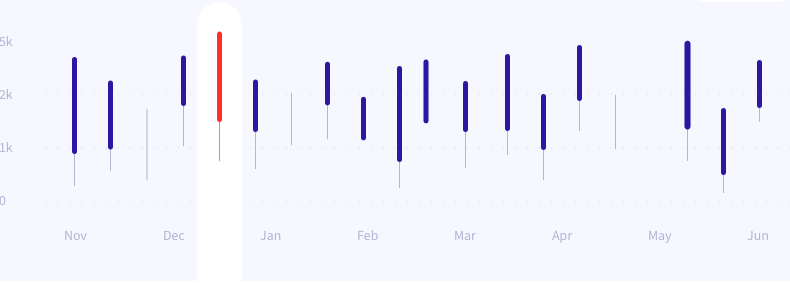
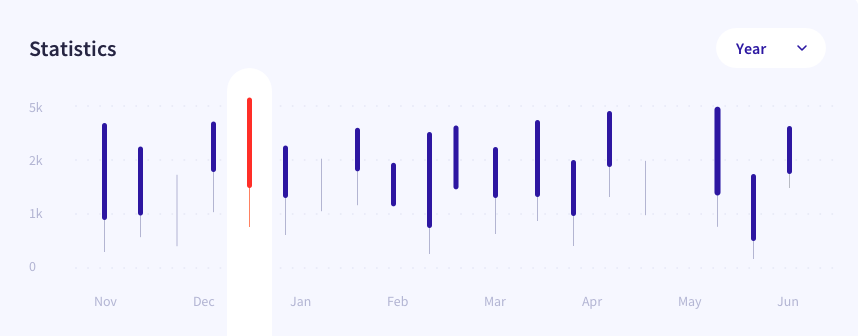
add spent time card

diff --git a/src/pages/Home.tsx b/src/pages/Home.tsx
@@ -1,8 +1,9 @@
-import { ActionButtons, CardGroup, MyCard, StatisticsGraph, Card } from '../components';
+import { ActionButtons, CardGroup, MyCard, Card, Tooltip } from '../components';
 import { isMobileDevice } from '../helpers/isMobileDevice';
 
 import analytics from '../images/analytics.png';
-
+import statistics from '../images/statistics.png';
+import spentTime from '../images/spentTime.png';
 interface analyticsCardDataProps {
     image: string;
     title: string;
@@ -23,7 +24,12 @@ const Home: React.FunctionComponent = () => {
                 <CardGroup>
                     {analyticsCardData.map(({ image, title, amount, isActive }, index) => {
                         return (
-                            <Card key={index} isActive={isActive} height={isMobileDevice ? '160px' : ''}>
+                            <Card
+                                key={index}
+                                isActive={isActive}
+                                height={isMobileDevice ? '160px' : ''}
+                                className="card-analytics"
+                            >
                                 <img
                                     className="card-image"
                                     src={image}
@@ -32,19 +38,27 @@ const Home: React.FunctionComponent = () => {
                                     width={isMobileDevice ? '100%' : '50px'}
                                 />
                                 <div className="card-body">
-                                    <h5 className="card-title">{title.toUpperCase()}</h5>
+                                    <h2 className="card-title">{title.toUpperCase()}</h2>
                                     <p className="card-text">{amount.toLocaleString()}</p>
                                 </div>
                             </Card>
                         );
                     })}
                 </CardGroup>
-                <StatisticsGraph />
                 <CardGroup>
-                    <Card maxWidth="420px" height="320px">
-                        Card 1
+                    <Card className="card-statistics">
+                        <img className="card-image" src={statistics} alt="statistics graph" />
                     </Card>
-                    <Card maxWidth="420px" height="320px">
+                </CardGroup>
+                <CardGroup>
+                    <Card maxWidth="420px" height="320px" className="card-spentTime">
+                        <div className="card-header">
+                            <h2 className="card-title">Spent Time</h2>
+                            <Tooltip title="4h 26min" color="#ffff" backgroundColor="#FF392B" />
+                        </div>
+                        <img className="card-image" src={spentTime} alt="spent time graph" />
+                    </Card>
+                    <Card maxWidth="420px" height="320px" className="card-connect">
                         Card 2
                     </Card>
                 </CardGroup>

diff --git a/src/style/card.css b/src/style/card.css
@@ -16,44 +16,47 @@
 }
 
 .card {
-    align-items: flex-start;
     box-shadow: -2px 1px 10px 3px rgba(247, 248, 255, 1);
     box-sizing: border-box;
     border-radius: 15px;
     display: flex;
-    flex: 1;
-    flex-direction: column-reverse;
     min-width: 0;
     padding: 10px;
 }
 
-.card.active {
+.card-analytics {
+    align-items: flex-start;
+    flex: 1;
+    flex-direction: column-reverse;
+}
+
+.card-analytics.active {
     background-color: #ff392b;
 }
 
-.card-image {
-    flex: 1;
+.card-analytics .card-image {
+    flex: 2;
 }
 
-.card-body {
+.card-analytics .card-body {
     align-items: flex-start;
     display: flex;
     flex-direction: column;
     flex: 1;
 }
 
-.card-title {
+.card-analytics .card-title {
     font-weight: 100;
     font-size: 10px;
     margin: 0;
     opacity: 0.5;
 }
 
-.card.active .card-title {
+.card-analytics.active .card-title {
     color: #ffff;
 }
 
-.card-text {
+.card-analytics .card-text {
     color: #3326ae;
     font-size: 20px;
     font-weight: bold;
@@ -62,8 +65,40 @@
     padding-top: 5px;
 }
 
-.card.active .card-text {
+.card-analytics.active .card-text {
     color: #ffff;
+}
+
+.card-statistics .card-image {
+    width: 100%;
+    height: 150px;
+}
+
+.card-spentTime {
+    flex-direction: column;
+}
+
+.card-spentTime .card-header {
+    display: flex;
+    align-items: center;
+    flex: 1;
+}
+
+.card-spentTime .card-header {
+    display: flex;
+    align-items: center;
+    flex: 1;
+    justify-content: space-between;
+    padding: 0 50px;
+}
+
+.card-spentTime .card-title {
+    font-size: 20px;
+    font-weight: normal;
+}
+
+.card-spentTime .card-image {
+    height: 355px;
 }
 
 @media screen and (min-width: 769px) {
@@ -79,24 +114,30 @@
         margin: 10px;
     }
 
-    .card {
+    .card-analytics {
+        align-items: center;
         display: flex;
         flex-direction: row;
+        height: 110px;
         padding: 15px;
         overflow: hidden;
     }
 
-    .card-image {
+    .card-analytics .card-image {
         flex: 1;
     }
 
-    .card-body {
+    .card-analytics .card-body {
         flex-direction: column;
         flex: 2;
         padding-left: 5px;
     }
 
-    .card-text {
+    .card-analytics .card-text {
         font-size: 25px;
+    }
+
+    .card-statistics .card-image {
+        height: 355px;
     }
 }

diff --git a/src/components/Card.tsx b/src/components/Card.tsx
@@ -2,15 +2,16 @@ interface CardProps {
     height?: string;
     maxWidth?: string;
     isActive?: boolean;
+    className: string;
 }
 
-const Card: React.FunctionComponent<CardProps> = ({ children, height, maxWidth, isActive }) => {
+const Card: React.FunctionComponent<CardProps> = ({ children, height, maxWidth, isActive, className }) => {
     const style = {
         maxWidth: maxWidth,
         height: height
     };
     return (
-        <div className={isActive ? 'card active' : 'card'} style={style}>
+        <div className={isActive ? `card ${className} active` : `card ${className}`} style={style}>
             {children}
         </div>
     );

diff --git a/src/components/Tooltip.tsx b/src/components/Tooltip.tsx
@@ -1,0 +1,27 @@
+interface TooltipProps {
+    title: string;
+    color: string;
+    backgroundColor: string;
+}
+
+const Tooltip: React.FunctionComponent<TooltipProps> = ({ title, color, backgroundColor }) => {
+    const wrapperStyle = {
+        backgroundColor
+    };
+
+    const textStyle = {
+        color
+    };
+
+    return (
+        <div className="tooltip-wrapper">
+            <div className="tooltip" style={wrapperStyle}>
+                <p className="tooltip-text" style={textStyle}>
+                    {title}
+                </p>
+            </div>
+        </div>
+    );
+};
+
+export default Tooltip;

diff --git a/src/style/tooltip.css b/src/style/tooltip.css
@@ -1,0 +1,31 @@
+.tooltip {
+    border: 1px solid #c2e1f5;
+    border-radius: 10px;
+    position: relative;
+    height: 35px;
+    line-height: 35px;
+    padding: 0 10px;
+}
+
+.tooltip:before {
+    top: 100%;
+    left: 50%;
+    border: solid transparent;
+    content: '';
+    height: 0;
+    width: 0;
+    position: absolute;
+    pointer-events: none;
+}
+
+.tooltip:before {
+    border-color: rgba(194, 225, 245, 0);
+    border-top-color: #ff392b;
+    border-width: 5px;
+    margin-left: -5px;
+}
+
+.tooltip-text {
+    font-size: 15px;
+    margin: 0;
+}

diff --git a/src/components/index.tsx b/src/components/index.tsx
@@ -4,6 +4,6 @@ export { default as Layout } from './Layout';
 export { default as Aside } from './Aside';
 export { default as CardGroup } from './CardGroup';
 export { default as MyCard } from './MyCard';
-export { default as StatisticsGraph } from './StatisticsGraph';
 export { default as Card } from './Card';
 export { default as ActionButtons } from './ActionButtons';
+export { default as Tooltip } from './Tooltip';

diff --git a/src/index.css b/src/index.css
@@ -6,3 +6,4 @@
 @import './style/card.css';
 @import './style/statistics.css';
 @import './style/myCard.css';
+@import './style/tooltip.css';
